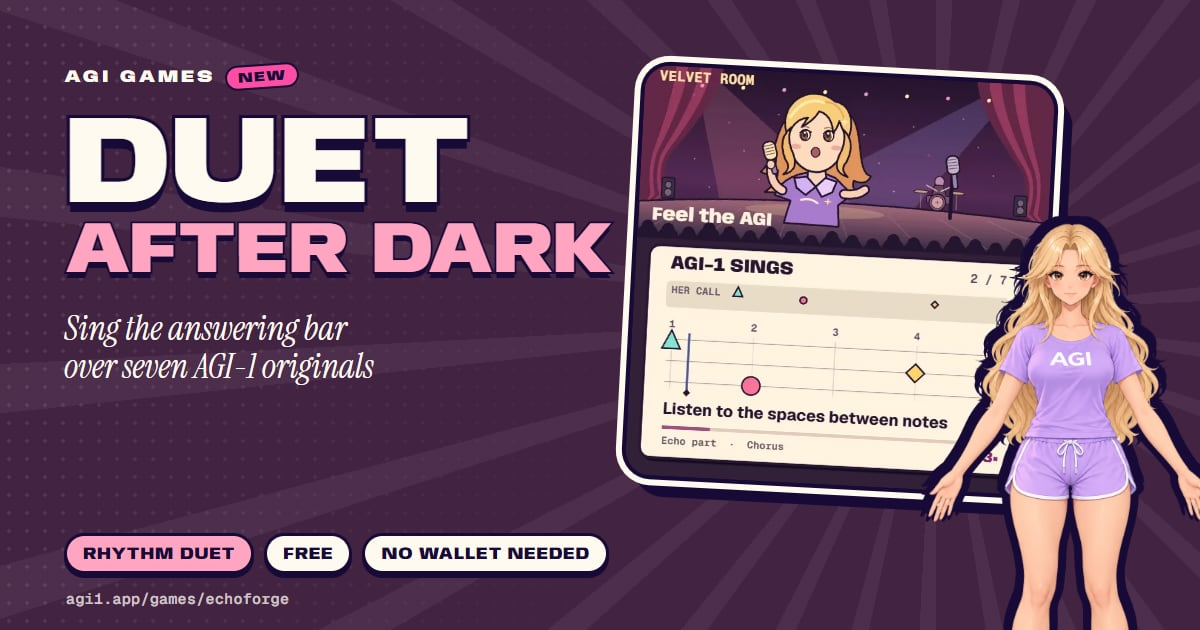
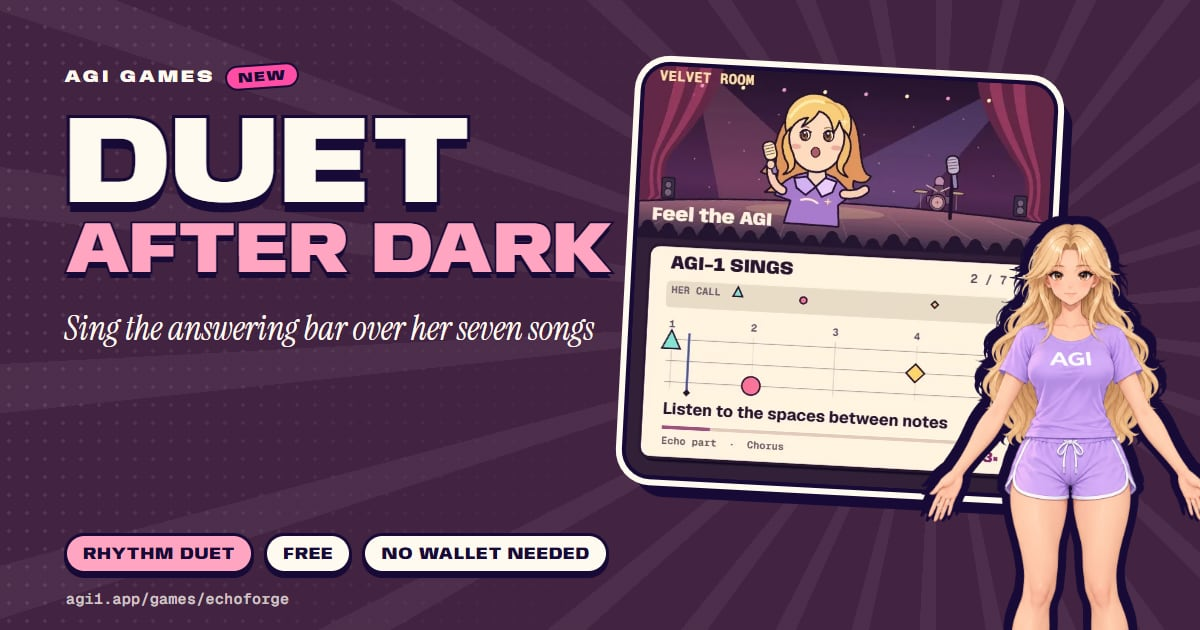
Fit the five new descriptions to the arcade shelf

Changed region(s): [[0.0308, 0.5429, 0.3083, 0.6032], [0.2775, 0.5127, 0.4933, 0.5429]]

diff --git a/src/games/collection.js b/src/games/collection.js
@@ -20,7 +20,7 @@ export const COLLECTION = [
   },
   {
     id: "echoforge", name: "DUET AFTER DARK", genre: "Rhythm duet",
-    line: "Sing the answering bar over seven AGI-1 originals", tags: ["action"],
+    line: "Sing the answering bar over her seven songs", tags: ["action"],
     accent: "#ffa5c1", ground: "#432342", style: "club",
     wordmark: ["Duet", "After Dark"], play: "Take the mic",
   },
@@ -74,7 +74,7 @@ export const COLLECTION = [
   },
   {
     id: "returnaddress", name: "NEEDLE DROP", genre: "Vinyl skating",
-    line: "Skate seven singles and backspin a missed groove", tags: ["3d", "action"],
+    line: "Skate her singles and backspin a missed beat", tags: ["3d", "action"],
     accent: "#ffe18c", ground: "#472542", style: "vinyl",
     wordmark: ["Needle", "Drop"], play: "Drop the needle",
   },
@@ -86,7 +86,7 @@ export const COLLECTION = [
   },
   {
     id: "pearlshift", name: "ABYSS FM", genre: "Sonar search",
-    line: "Cross two sonar bearings to find a moving singer", tags: ["chill"],
+    line: "Cross sonar bearings to find a moving singer", tags: ["chill"],
     accent: "#91efd8", ground: "#153747", style: "scope",
     wordmark: ["Abyss", "FM"], play: "Tune in",
   },
@@ -110,13 +110,13 @@ export const COLLECTION = [
   },
   {
     id: "summitline", name: "CABLE CHOIR", genre: "Musical memory",
-    line: "Remember growing melodies on four singing gondolas", tags: ["chill"],
+    line: "Play back melodies on four singing gondolas", tags: ["chill"],
     accent: "#ffc5a1", ground: "#49353c", style: "alpine",
     wordmark: ["Cable", "Choir"], play: "Join the choir",
   },
   {
     id: "tidepool", name: "SIDE B", genre: "Late-night DJ",
-    line: "Crossfade her seven originals for late-night listeners", tags: ["chill"],
+    line: "Crossfade seven songs for late-night callers", tags: ["chill"],
     accent: "#ffbc99", ground: "#572e3b", style: "tape",
     wordmark: ["Side B"], play: "Go on air",
   },

diff --git a/returnaddress.html b/returnaddress.html
@@ -4,13 +4,13 @@
     <meta charset="UTF-8" />
     <meta name="viewport" content="width=device-width, initial-scale=1, viewport-fit=cover" />
     <title>NEEDLE DROP · AGI games</title>
-    <meta name="description" content="Skate seven singles and backspin a missed groove. Free to play in your browser. No wallet needed." />
+    <meta name="description" content="Skate her singles and backspin a missed beat. Free to play in your browser. No wallet needed." />
     <meta name="color-scheme" content="dark" />
     <meta name="theme-color" content="#0b0414" />
     <meta property="og:type" content="website" />
     <meta property="og:site_name" content="AGI" />
     <meta property="og:title" content="NEEDLE DROP · AGI games" />
-    <meta property="og:description" content="Skate seven singles and backspin a missed groove. Free in your browser, no wallet needed." />
+    <meta property="og:description" content="Skate her singles and backspin a missed beat. Free in your browser, no wallet needed." />
     <meta property="og:image" content="__SITE__/cards/games/returnaddress.jpg" />
     <meta property="og:image:width" content="1200" />
     <meta property="og:image:height" content="630" />
@@ -18,7 +18,7 @@
     <meta property="og:url" content="__SITE__/games/returnaddress" />
     <meta name="twitter:card" content="summary_large_image" />
     <meta name="twitter:title" content="NEEDLE DROP · AGI games" />
-    <meta name="twitter:description" content="Skate seven singles and backspin a missed groove. Free in your browser, no wallet needed." />
+    <meta name="twitter:description" content="Skate her singles and backspin a missed beat. Free in your browser, no wallet needed." />
     <meta name="twitter:image" content="__SITE__/cards/games/returnaddress.jpg" />
     <link rel="canonical" href="__SITE__/games/returnaddress" />
     <link rel="icon" type="image/svg+xml" href="/favicon.svg" />

diff --git a/echoforge.html b/echoforge.html
@@ -4,13 +4,13 @@
     <meta charset="UTF-8" />
     <meta name="viewport" content="width=device-width, initial-scale=1, viewport-fit=cover" />
     <title>DUET AFTER DARK · AGI games</title>
-    <meta name="description" content="Sing the answering bar over seven AGI-1 originals. Free to play in your browser. No wallet needed." />
+    <meta name="description" content="Sing the answering bar over her seven songs. Free to play in your browser. No wallet needed." />
     <meta name="color-scheme" content="dark" />
     <meta name="theme-color" content="#0b0414" />
     <meta property="og:type" content="website" />
     <meta property="og:site_name" content="AGI" />
     <meta property="og:title" content="DUET AFTER DARK · AGI games" />
-    <meta property="og:description" content="Sing the answering bar over seven AGI-1 originals. Free in your browser, no wallet needed." />
+    <meta property="og:description" content="Sing the answering bar over her seven songs. Free in your browser, no wallet needed." />
     <meta property="og:image" content="__SITE__/cards/games/echoforge.jpg" />
     <meta property="og:image:width" content="1200" />
     <meta property="og:image:height" content="630" />
@@ -18,7 +18,7 @@
     <meta property="og:url" content="__SITE__/games/echoforge" />
     <meta name="twitter:card" content="summary_large_image" />
     <meta name="twitter:title" content="DUET AFTER DARK · AGI games" />
-    <meta name="twitter:description" content="Sing the answering bar over seven AGI-1 originals. Free in your browser, no wallet needed." />
+    <meta name="twitter:description" content="Sing the answering bar over her seven songs. Free in your browser, no wallet needed." />
     <meta name="twitter:image" content="__SITE__/cards/games/echoforge.jpg" />
     <link rel="canonical" href="__SITE__/games/echoforge" />
     <link rel="icon" type="image/svg+xml" href="/favicon.svg" />

diff --git a/summitline.html b/summitline.html
@@ -4,13 +4,13 @@
     <meta charset="UTF-8" />
     <meta name="viewport" content="width=device-width, initial-scale=1, viewport-fit=cover" />
     <title>CABLE CHOIR · AGI games</title>
-    <meta name="description" content="Remember growing melodies on four singing gondolas. Free to play in your browser. No wallet needed." />
+    <meta name="description" content="Play back melodies on four singing gondolas. Free to play in your browser. No wallet needed." />
     <meta name="color-scheme" content="dark" />
     <meta name="theme-color" content="#0b0414" />
     <meta property="og:type" content="website" />
     <meta property="og:site_name" content="AGI" />
     <meta property="og:title" content="CABLE CHOIR · AGI games" />
-    <meta property="og:description" content="Remember growing melodies on four singing gondolas. Free in your browser, no wallet needed." />
+    <meta property="og:description" content="Play back melodies on four singing gondolas. Free in your browser, no wallet needed." />
     <meta property="og:image" content="__SITE__/cards/games/summitline.jpg" />
     <meta property="og:image:width" content="1200" />
     <meta property="og:image:height" content="630" />
@@ -18,7 +18,7 @@
     <meta property="og:url" content="__SITE__/games/summitline" />
     <meta name="twitter:card" content="summary_large_image" />
     <meta name="twitter:title" content="CABLE CHOIR · AGI games" />
-    <meta name="twitter:description" content="Remember growing melodies on four singing gondolas. Free in your browser, no wallet needed." />
+    <meta name="twitter:description" content="Play back melodies on four singing gondolas. Free in your browser, no wallet needed." />
     <meta name="twitter:image" content="__SITE__/cards/games/summitline.jpg" />
     <link rel="canonical" href="__SITE__/games/summitline" />
     <link rel="icon" type="image/svg+xml" href="/favicon.svg" />

diff --git a/tidepool.html b/tidepool.html
@@ -4,13 +4,13 @@
     <meta charset="UTF-8" />
     <meta name="viewport" content="width=device-width, initial-scale=1, viewport-fit=cover" />
     <title>SIDE B · AGI games</title>
-    <meta name="description" content="Crossfade her seven originals for late-night listeners. Free to play in your browser. No wallet needed." />
+    <meta name="description" content="Crossfade seven songs for late-night callers. Free to play in your browser. No wallet needed." />
     <meta name="color-scheme" content="dark" />
     <meta name="theme-color" content="#0b0414" />
     <meta property="og:type" content="website" />
     <meta property="og:site_name" content="AGI" />
     <meta property="og:title" content="SIDE B · AGI games" />
-    <meta property="og:description" content="Crossfade her seven originals for late-night listeners. Free in your browser, no wallet needed." />
+    <meta property="og:description" content="Crossfade seven songs for late-night callers. Free in your browser, no wallet needed." />
     <meta property="og:image" content="__SITE__/cards/games/tidepool.jpg" />
     <meta property="og:image:width" content="1200" />
     <meta property="og:image:height" content="630" />
@@ -18,7 +18,7 @@
     <meta property="og:url" content="__SITE__/games/tidepool" />
     <meta name="twitter:card" content="summary_large_image" />
     <meta name="twitter:title" content="SIDE B · AGI games" />
-    <meta name="twitter:description" content="Crossfade her seven originals for late-night listeners. Free in your browser, no wallet needed." />
+    <meta name="twitter:description" content="Crossfade seven songs for late-night callers. Free in your browser, no wallet needed." />
     <meta name="twitter:image" content="__SITE__/cards/games/tidepool.jpg" />
     <link rel="canonical" href="__SITE__/games/tidepool" />
     <link rel="icon" type="image/svg+xml" href="/favicon.svg" />

diff --git a/pearlshift.html b/pearlshift.html
@@ -4,13 +4,13 @@
     <meta charset="UTF-8" />
     <meta name="viewport" content="width=device-width, initial-scale=1, viewport-fit=cover" />
     <title>ABYSS FM · AGI games</title>
-    <meta name="description" content="Cross two sonar bearings to find a moving singer. Free to play in your browser. No wallet needed." />
+    <meta name="description" content="Cross sonar bearings to find a moving singer. Free to play in your browser. No wallet needed." />
     <meta name="color-scheme" content="dark" />
     <meta name="theme-color" content="#0b0414" />
     <meta property="og:type" content="website" />
     <meta property="og:site_name" content="AGI" />
     <meta property="og:title" content="ABYSS FM · AGI games" />
-    <meta property="og:description" content="Cross two sonar bearings to find a moving singer. Free in your browser, no wallet needed." />
+    <meta property="og:description" content="Cross sonar bearings to find a moving singer. Free in your browser, no wallet needed." />
     <meta property="og:image" content="__SITE__/cards/games/pearlshift.jpg" />
     <meta property="og:image:width" content="1200" />
     <meta property="og:image:height" content="630" />
@@ -18,7 +18,7 @@
     <meta property="og:url" content="__SITE__/games/pearlshift" />
     <meta name="twitter:card" content="summary_large_image" />
     <meta name="twitter:title" content="ABYSS FM · AGI games" />
-    <meta name="twitter:description" content="Cross two sonar bearings to find a moving singer. Free in your browser, no wallet needed." />
+    <meta name="twitter:description" content="Cross sonar bearings to find a moving singer. Free in your browser, no wallet needed." />
     <meta name="twitter:image" content="__SITE__/cards/games/pearlshift.jpg" />
     <link rel="canonical" href="__SITE__/games/pearlshift" />
     <link rel="icon" type="image/svg+xml" href="/favicon.svg" />
